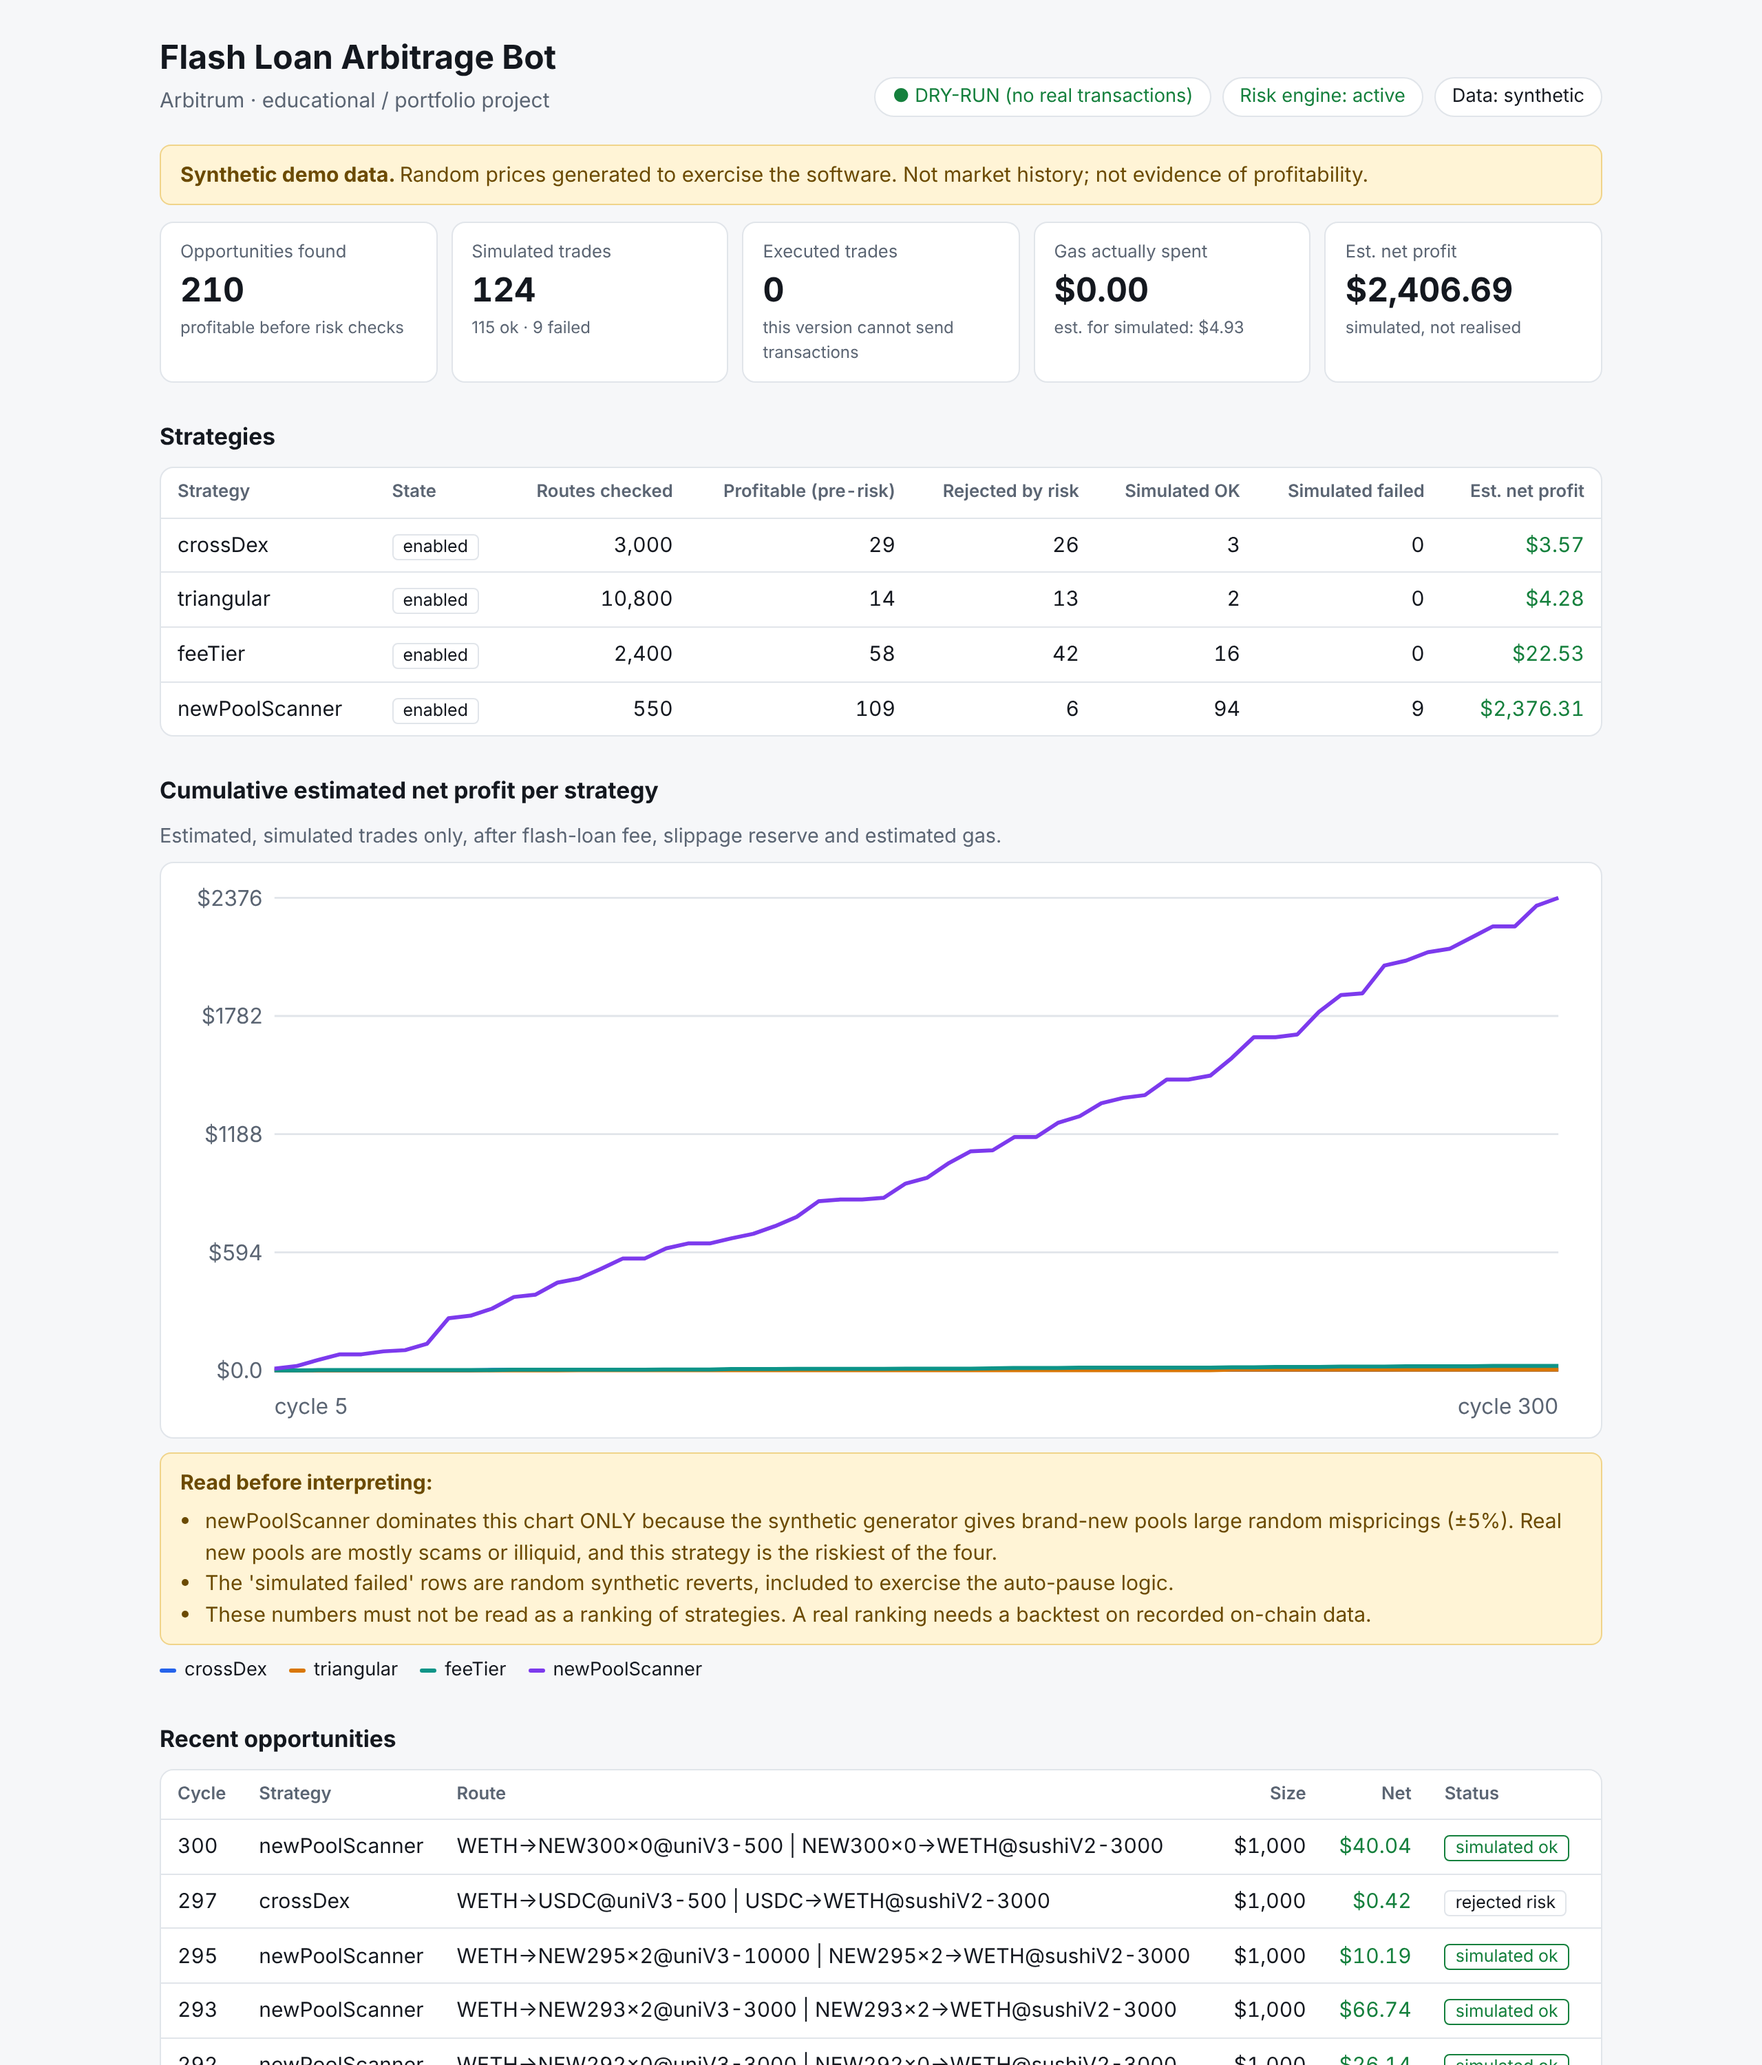
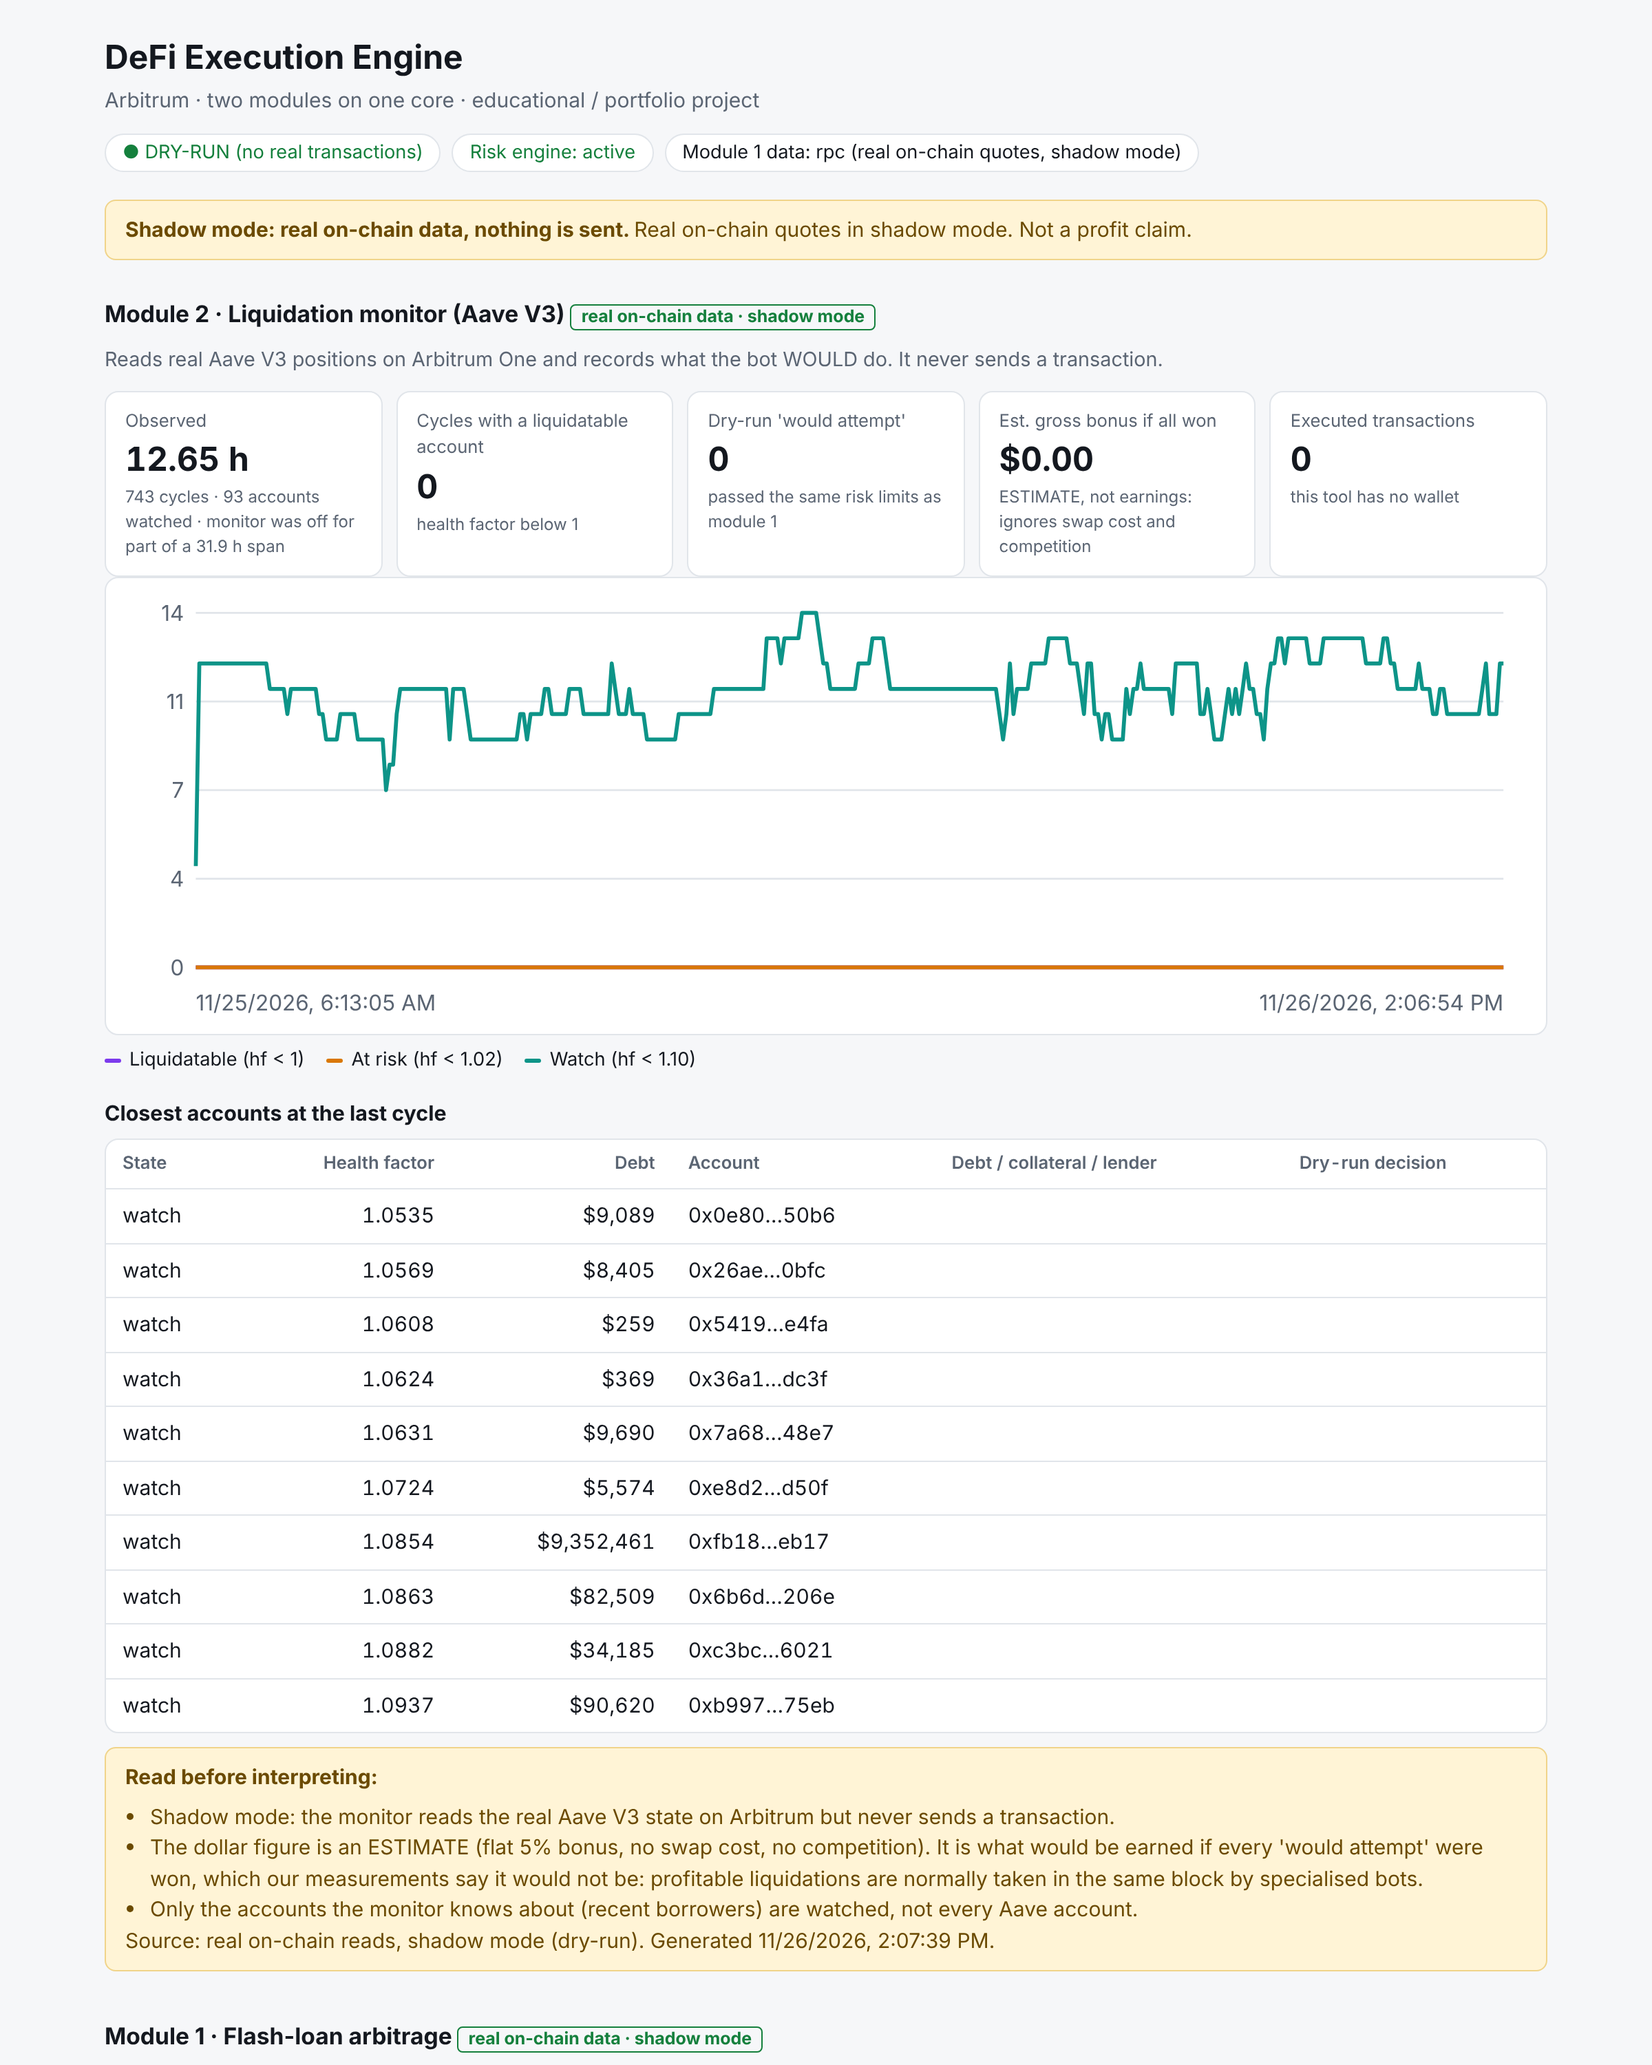
docs: real dashboard screenshots and shadow-mode results in README
Claude-Session: https://claude.ai/code/session_016TxTeiuaUB2zCeQHB8Dg4e

diff --git a/README.md b/README.md
@@ -32,7 +32,8 @@ Honest note on "shared core": the two modules share code by importing the same c
 | Backtest engine + report generator | **Run on real data**; see "Results" |
 | Live dry-run loop with RPC data, static-call simulator | Written, **not yet run** |
 | Testnet end-to-end test | Instructions in [docs/TESTNET.md](docs/TESTNET.md), **not yet run** |
-| Dashboard | Done; module 1 shows **synthetic** demo data; module 2 section shows **real** shadow-mode data once `export-shadow` has been run (empty until then) |
+| Dashboard | Done and published (Render, free tier); shows **real** shadow-mode data for both modules plus the parsed past studies. Synthetic demo data only exists on localhost, labelled |
+| Shadow-mode collection | Run on real data: 743 liquidation-monitor cycles (about 12.65 h), 180 arbitrage cycles; see "Live dashboard and shadow-mode results" |
 
 ### What the fork tests showed (real Arbitrum state, earlier version with both Aave V3 and Balancer V2)
 Aave was later removed so that the contract only uses zero-interest loans; these measurements explain that decision.
@@ -184,13 +185,31 @@ Reports: [30 days](docs/reports/liquidations-2026-10-24-to-11-25-arbitrum-30d.md
 slippage reserve and gas. `feeTier` came closest. This is the expected result for liquid pools that professional bots keep
 in line, and it is the reason this project stays in dry-run mode. Sampling every 30 minutes cannot see gaps that last seconds.
 
-## Screenshots (synthetic demo data)
+## Live dashboard and shadow-mode results (real data, 2026-11-26)
+
+Live dashboard: https://defi-execution-engine-dashboard.onrender.com (static page, no wallet, nothing is sent).
+
 | Desktop | Mobile |
 |---|---|
 | ![Dashboard desktop](docs/screenshots/dashboard-desktop.png) | ![Dashboard mobile](docs/screenshots/dashboard-mobile.png) |
 
-The dashboard displays randomly generated prices and says so in a banner. In those demo data `newPoolScanner` "wins" only
-because the generator gives new pools large random mispricings; that is **not** a finding.
+Shadow mode means the tools read the real chain and record what the bot WOULD do; no transaction is ever sent.
+What the runs recorded (the files are `dashboard/data/shadow.json` and `dashboard/data/arbitrage-shadow.json`):
+
+- **Liquidation monitor:** 743 cycles (about 12.65 h of continuous monitoring inside a 31.9 h window; the monitor was
+  stopped or the laptop asleep for the rest), 93 borrower accounts watched. **No account became liquidatable** during
+  those hours; typically 9 to 14 accounts sat in the "watch" band (health factor under 1.10), the closest at about 1.05.
+- **Arbitrage, real quotes:** 180 cycles, 9,720 routes priced. Best net result so far per strategy, after DEX fees,
+  slippage reserve and estimated gas: crossDex about -$63.9, triangular about -$10.8, feeTier +$0.29. The single positive
+  candidate (feeTier, $1,000, WETH -> USDC on the 0.30% pool and back on the 0.05% pool) is below the $1 minimum-profit
+  limit, came from one price snapshot, and never repeated. `newPoolScanner` has no data because new-pool discovery is
+  not implemented over RPC.
+- **Past studies** (30 days of Aave liquidations, 24 h of arbitrage quotes, block-level gap radar) are shown at the
+  bottom of the dashboard, parsed from `docs/reports/`.
+
+These are measurements, not profit claims: quote-only, one pair set, no competition modelled, and a few hours of
+shadow data. The conclusion from all of it is unchanged: arbitrage on these pools is not profitable with free
+infrastructure, and profitable liquidations are taken in the same block by specialised bots.
 
 ## Limitations and risks
 - **Competition.** Flash-loan arbitrage on Arbitrum is contested by professional bots with low-latency infrastructure.
